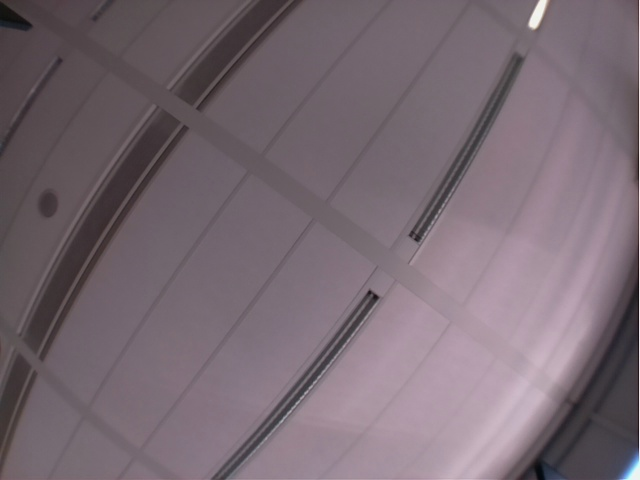
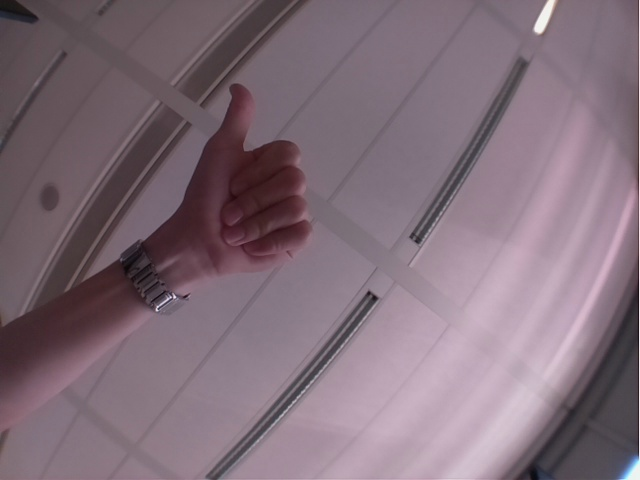
maak nieuwe foto voor template matching

diff --git a/app.py b/app.py
@@ -114,6 +114,7 @@ def python():
 
     elif request.form['function'] == "matchtemplates":
         # roep match templates python aan
+        fc.makePhoto()
         tmg.matchTemplates()
         return "Success template matching"
 
